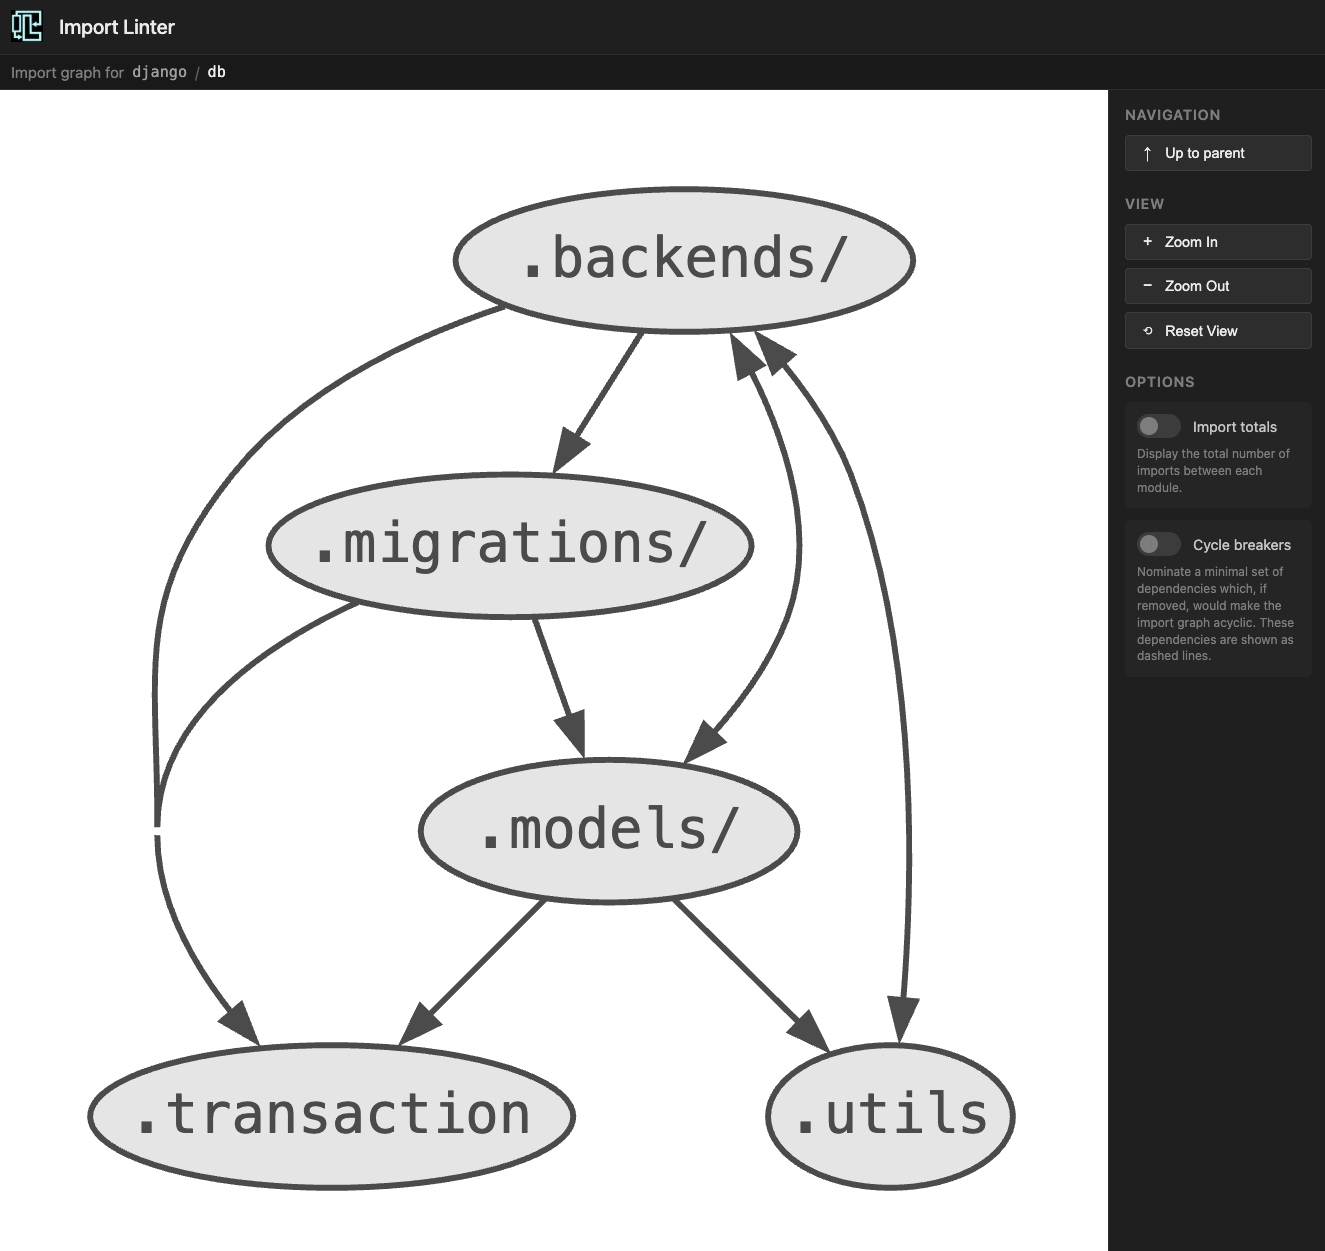
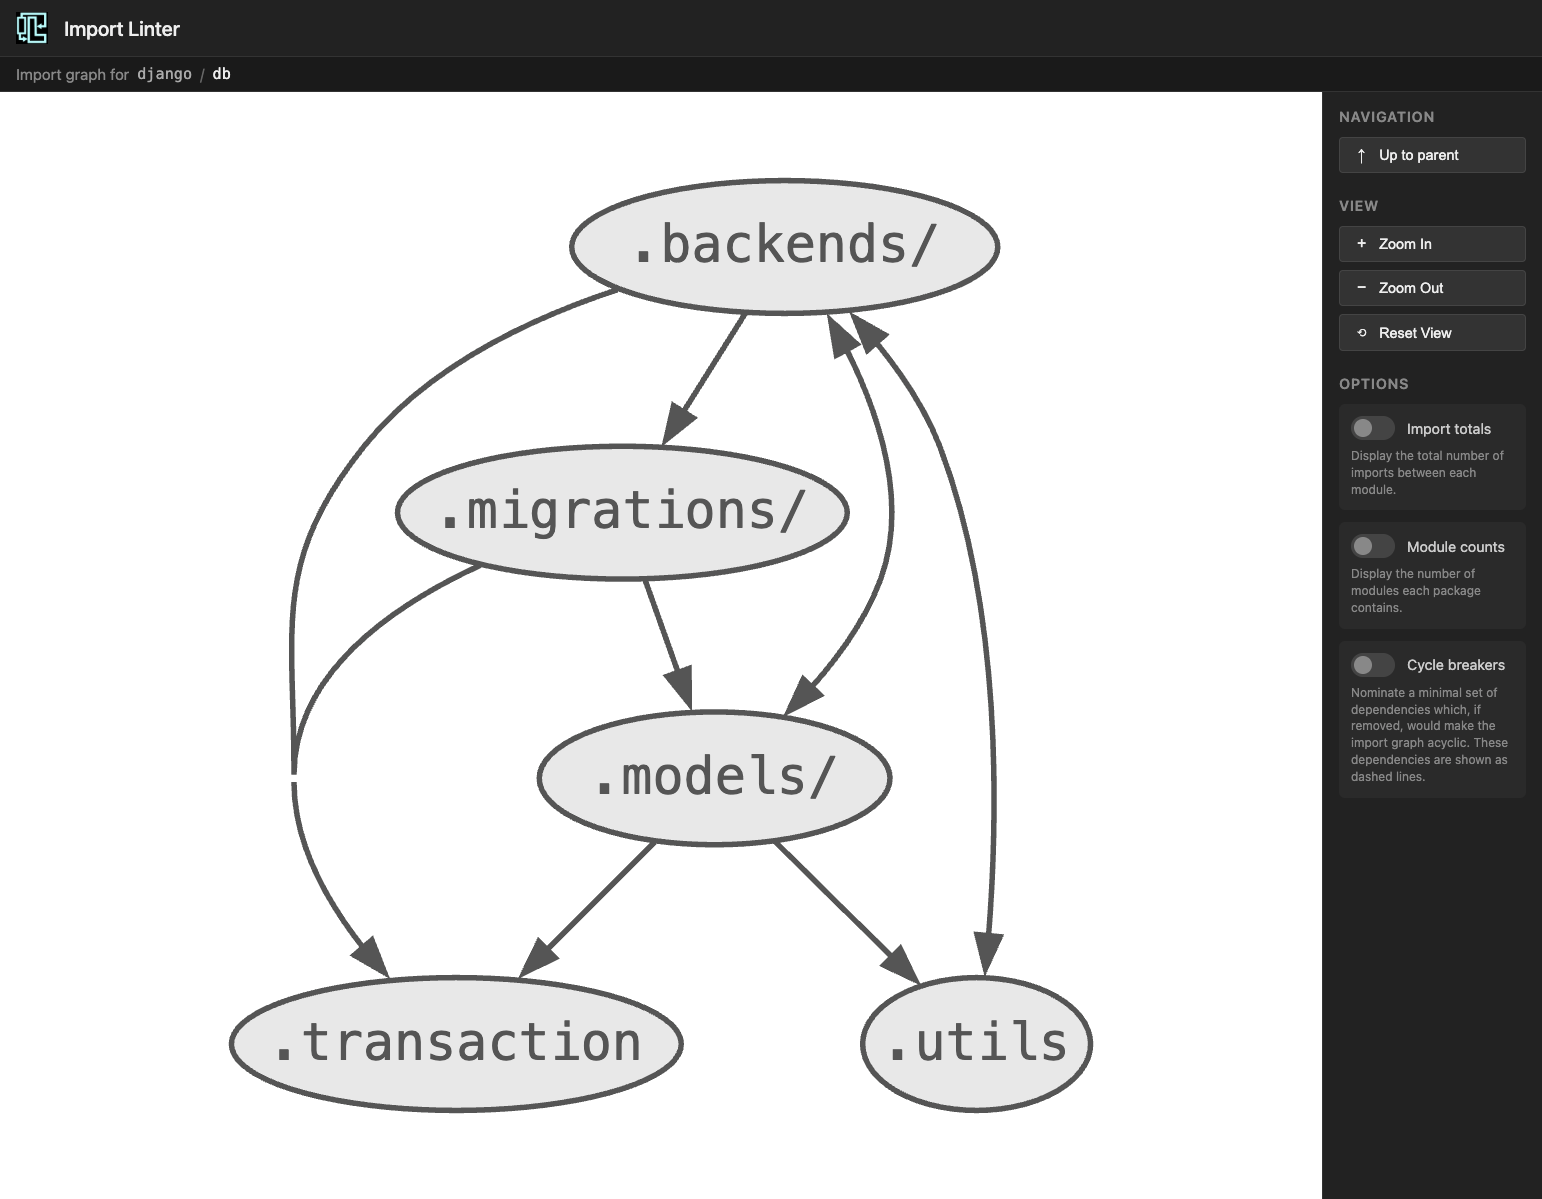
Document module counts option

diff --git a/docs/ui.md b/docs/ui.md
@@ -55,6 +55,13 @@ it represents.
 
 Here you can see that there are two imports from modules within `.models` of modules within `.utils`.
 
+### Module counts
+
+Enabling **Module counts** labels each package node with the number of modules it contains
+(i.e. its descendants in the module tree).
+
+![Screenshot of module counts](img/ui-module-counts.png)
+
 ### Cycle breakers
 
 Enabling **Cycle breakers** highlights (with a dashed line) a minimal set of dependencies that,
@@ -85,5 +92,6 @@ The same display options are available as flags:
 
 ```console
 import-linter drawgraph mypackage --show-import-totals
+import-linter drawgraph mypackage --show-module-counts
 import-linter drawgraph mypackage --show-cycle-breakers
 ```

diff --git a/docs/release_notes.md b/docs/release_notes.md
@@ -1,5 +1,9 @@
 # Release notes
 
+## latest (unreleased)
+
+* Add module counts option to the explore UI and `drawgraph` command.
+
 ## 2.12 (2026-06-23)
 
 * Improve error message when root package is a single-file module.
